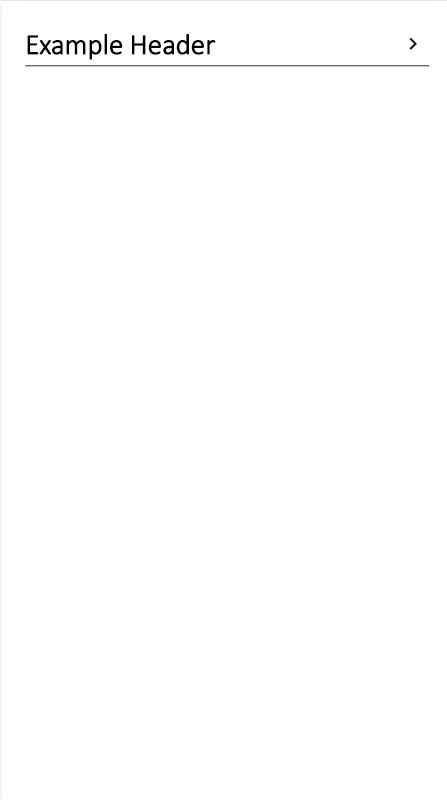
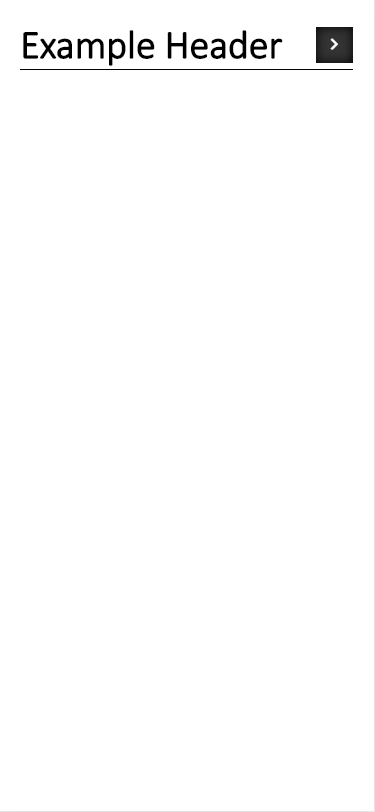
Updated usage and renamed bw-front-header to bw-page-header

Changed region(s): [[0.0587, 0.0312, 0.968, 0.0938], [0.9973, 0.0, 1.0, 1.0]]

diff --git a/_sass/jekyll-theme-backwhite/_front.scss b/_sass/jekyll-theme-backwhite/_front.scss
@@ -37,18 +37,4 @@
         margin-right: $spacing-unit;
         padding: $spacing-unit;
     }
-
-    // Front page header
-    .bw-front-header {
-        @extend .bw-header;
-        align-items: center !important;
-
-        // Front header action
-        .bw-action {
-            @include cutout;
-            padding: $spacing-unit 4*$spacing-unit/3 !important;
-            background-color: $back-color !important;
-            color: $white-color !important;
-        }
-    }
 }

diff --git a/_sass/jekyll-theme-backwhite/_misc.scss b/_sass/jekyll-theme-backwhite/_misc.scss
@@ -41,6 +41,20 @@
     }
 }
 
+// Front page header
+.bw-page-header {
+    @extend .bw-header;
+    align-items: center !important;
+
+    // Front header action
+    .bw-action {
+        @include cutout;
+        padding: $spacing-unit 4*$spacing-unit/3 !important;
+        background-color: $back-color !important;
+        color: $white-color !important;
+    }
+}
+
 // Content gutters
 .bw-content-gutters {
     display: block;

diff --git a/_layouts/page.html b/_layouts/page.html
@@ -1,7 +1,7 @@
 ---
 layout: default
 ---
-<div class="bw-front-header">
+<div class="bw-page-header">
     <h1 class="bw-title">{{ page.title }}</h1>
     <button class='bw-action bw-show-on-mobile bw-open'>
         <span class="fas fa-chevron-right"></span>

diff --git a/usage-bruh.md b/usage-bruh.md
@@ -83,6 +83,8 @@ This is an example of a header in the back panel.
 
 The front and back usually start with main headers. These are what will contain the buttons controlling the sliding on mobile. The front panel header would usually contain the title of the page. The back panel header would contain the title of the site. On each of these there would be one button which handles opening and closing.
 
+The front panel header actually uses a special class called `.bw-page-header`, which changes the styling of the button that opens the back menu.
+
 ```html
 <body>
     <div class="bw-back">
@@ -97,7 +99,7 @@ The front and back usually start with main headers. These are what will contain 
     </div>
     <div class="bw-front">
         <div class="bw-front-container">
-            <div class='bw-header'>
+            <div class='bw-page-header'>
                 <h1 class='bw-title'>Example Header</h1>
                 <button class="bw-action bw-show-on-mobile bw-open">
                     <span class="fas fa-chevron-right"></span>
@@ -501,13 +503,18 @@ Blockquotes and pre/code sections are automatically formatted as cutouts
 
 ## Buttons
 
-Backwhite provides three button types. `.bw-text-button` is a button formatted simply as text. `.bw-cutout-button` is a button formatted like a cutout. Use this in a front-formatted section. For the back and cutouts, there is `.bw-raised-button`.
+Backwhite provides three button types. `.bw-text-button` is a button formatted simply as text. `.bw-border-button` is a button with a border around it. `.bw-cutout-button` is a button formatted like a cutout. Use this in a front-formatted section. For the back and cutouts, there is `.bw-raised-button`. There is finally `.bw-emph-button` which automatically switches between cutout and raised styles depending on the context.
 
 ```html
 <p><button class="bw-text-button">Text Button</button></p>
+<p><button class="bw-border-button">Border Button</button></p>
 <p><button class="bw-cutout-button">Cutout Button</button></p>
+<p><button class="bw-emph-button">Emphasis Button</button></p>
 <div class="bw-cutout">
+    <p><button class="bw-text-button">Text Button</button></p>
+    <p><button class="bw-border-button">Border Button</button></p>
     <p><button class="bw-raised-button">Raised Button</button></p>
+    <p><button class="bw-emph-button">Emphasis Button</button></p>
 </div>
 ```
 
